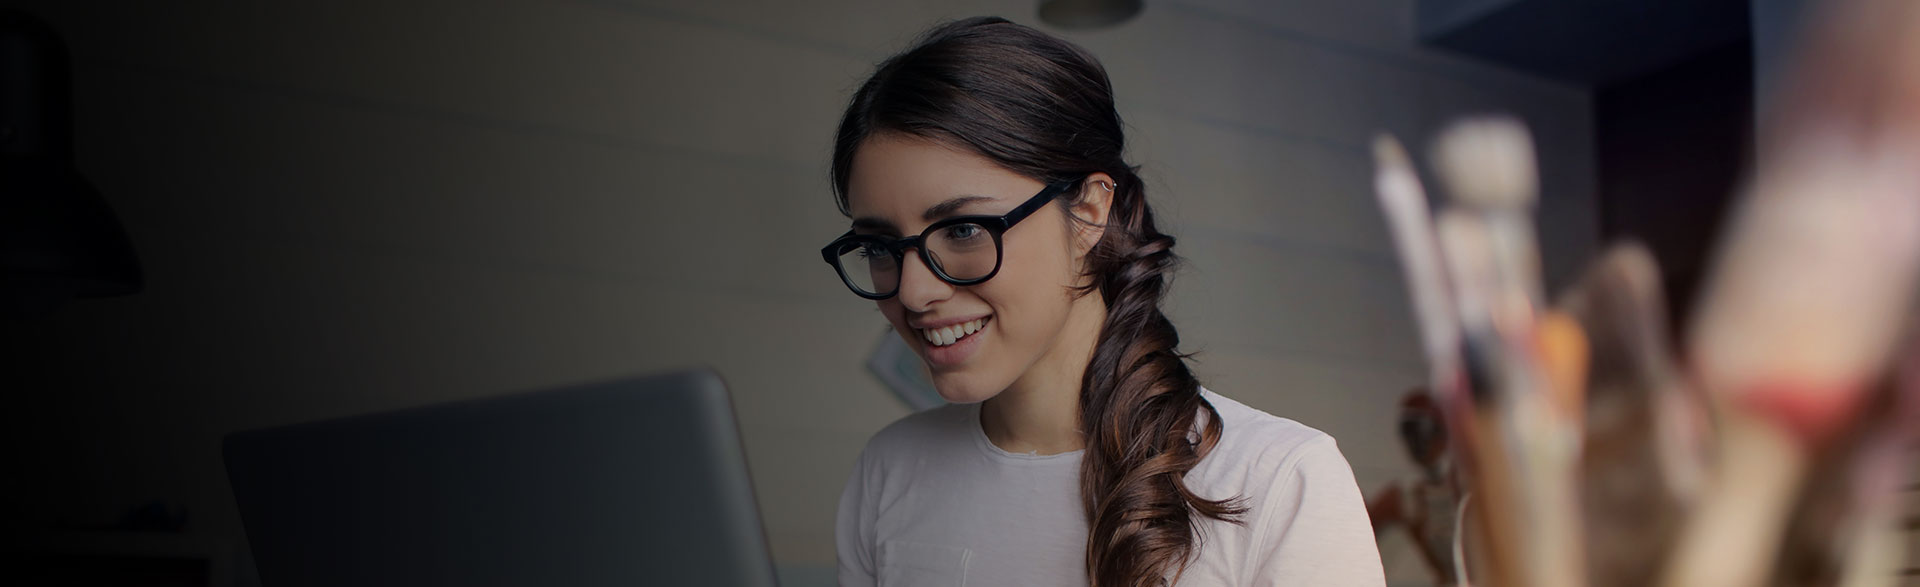
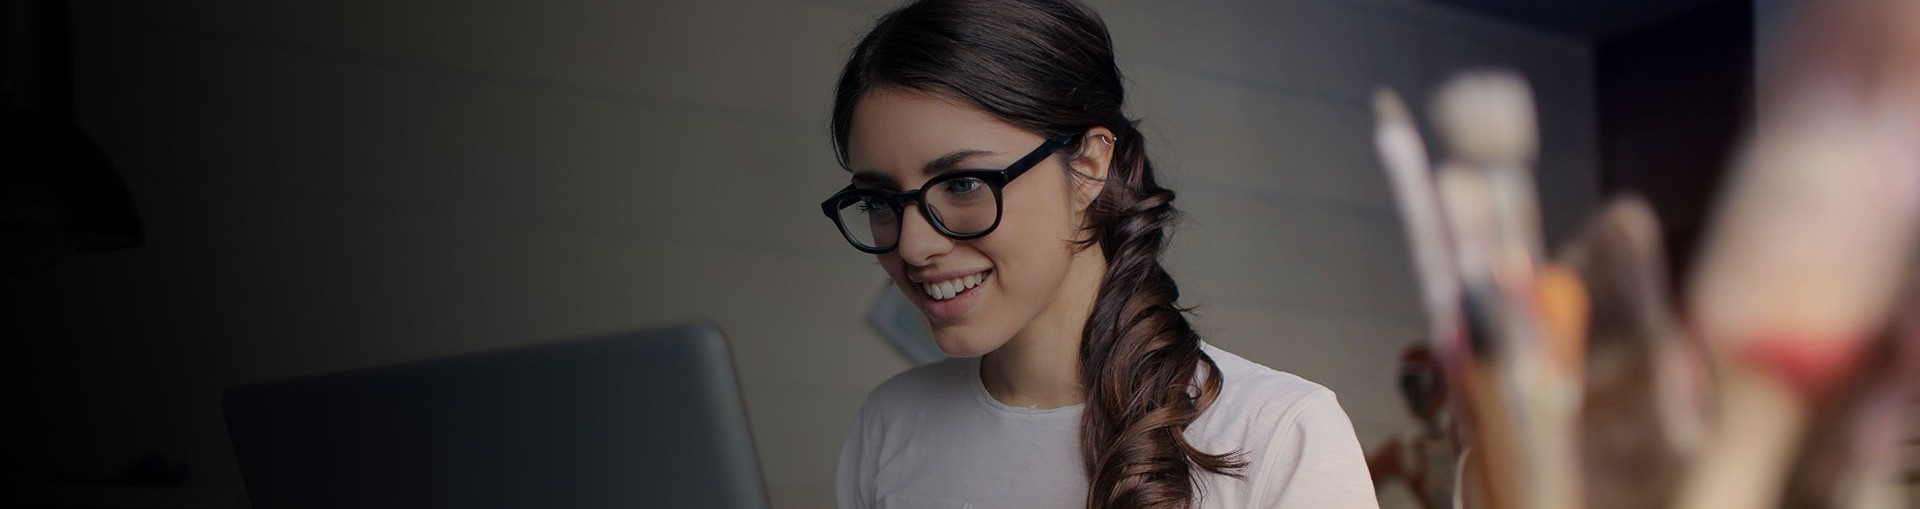
Antes de probar algo
Se avanzó, no tanto como se quiso

diff --git a/src/app/informacion/informacion.component.html b/src/app/informacion/informacion.component.html
@@ -27,21 +27,27 @@
     <nav class="navbar navbar-expand-lg ">
         <div class="container-fluid">
             <a class="navbar-brand" href="#">
-                <img src="/docs/5.3/assets/brand/bootstrap-logo.svg" alt="Logo" width="30" height="24"
+                <img src="..." alt="Logo" width="30" height="24"
                     class="d-inline-block align-text-top" />
                 Bootstrap
             </a>
         </div>
     </nav>
-    <img src="beautiful-blur-casual-935756.jpg" class="img-fluid w-100 " />
+    <img src="beautiful-blur-casual-935756.jpg" class="img-fluid w-100"  />
+    <!--class="img-fluid w-100" style="height: 80px; object-fit: cover; object-position: top;"-->
     <div class="container-fluid">
+
+        <div class="row align-items-center">
+            <div class="col-md-6"></div>            
+            <div class="col-md-6 d-flex align-items-center">
+                <img src="Logo-universidad-kennedy-300x95.png" class="img-fluid w-25" />
+                <h3 class="ms-3 text-primary">INFORMACIÓN</h3>
+            </div>
+        </div>
 
         <div class="row">
             <div class="col-md-6"></div>
             <div class="col-md-6">
-
-                    <p>Prueba</p>
-
                 <div class="accordion w-100" id="accordionExample">
                     <div class="accordion-item">
                         <h2 class="accordion-header">
@@ -110,18 +116,14 @@
             </div>
         </div>
     </div>
-        <!-- <div class="col-1"> </div> -->
+    <!-- <div class="col-1"> </div> -->
 
-                    <img src="banner-principal-grupo-nods-1.jpg" class="img-fluid w-100" />
+    <img src="banner-principal-grupo-nods-1.jpg" class="img-fluid w-100"/>
 
+        <div class="col-12 text-center">
+            <p>© Copyright 2024 | Todos los derechos reservados</p>
+        </div>
 
-
-            <div class="row">
-                <div class="col-12 text-center">
-                    <p>© Copyright 2024 | Todos los derechos reservados</p>
-                </div>
-            </div>
-        
 
 
 
